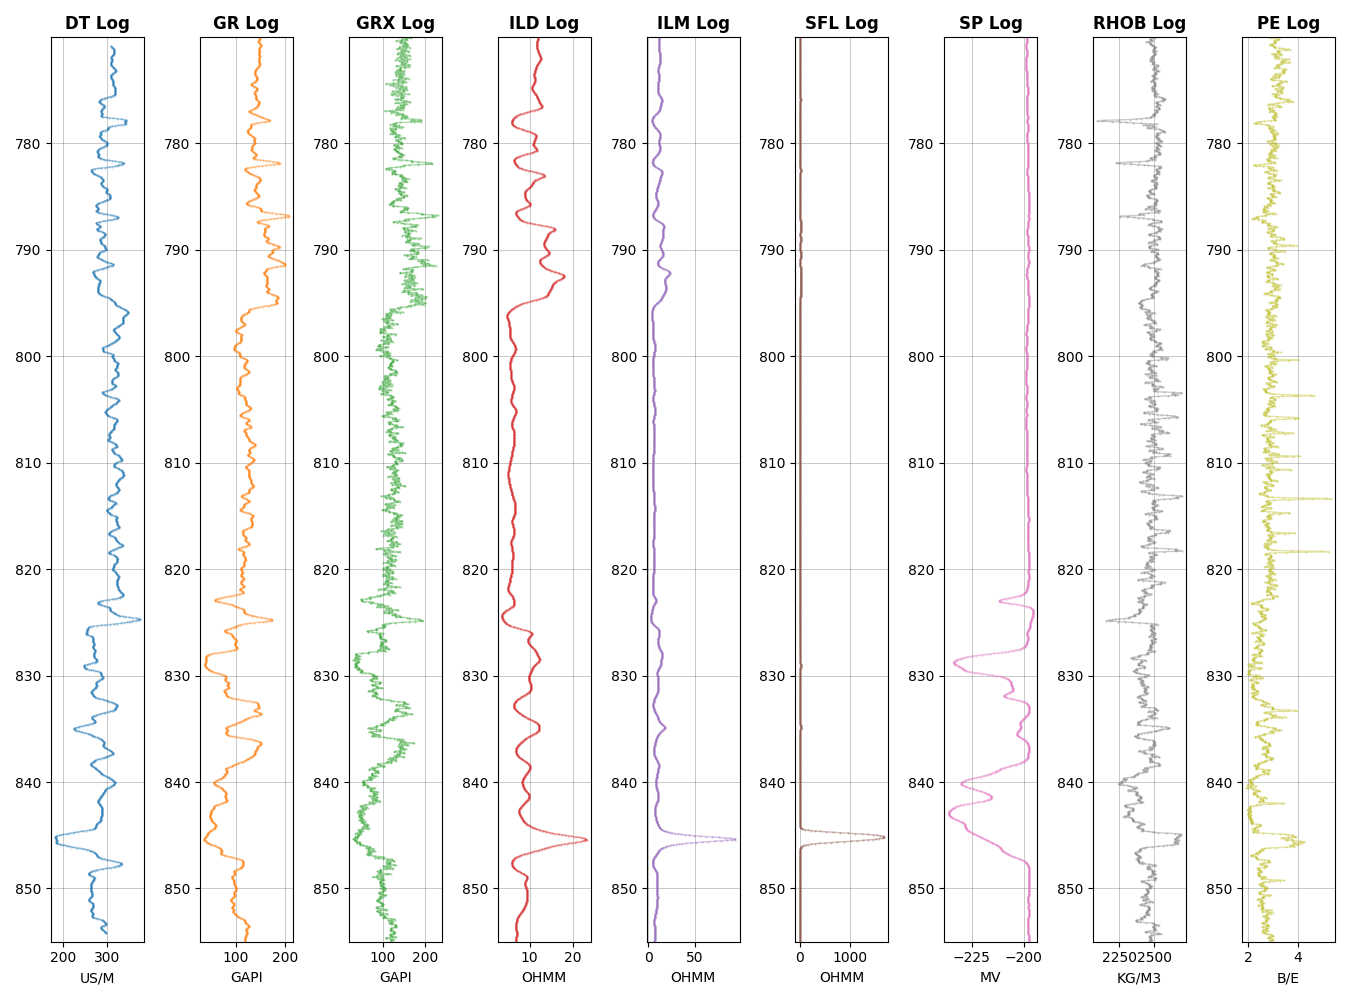
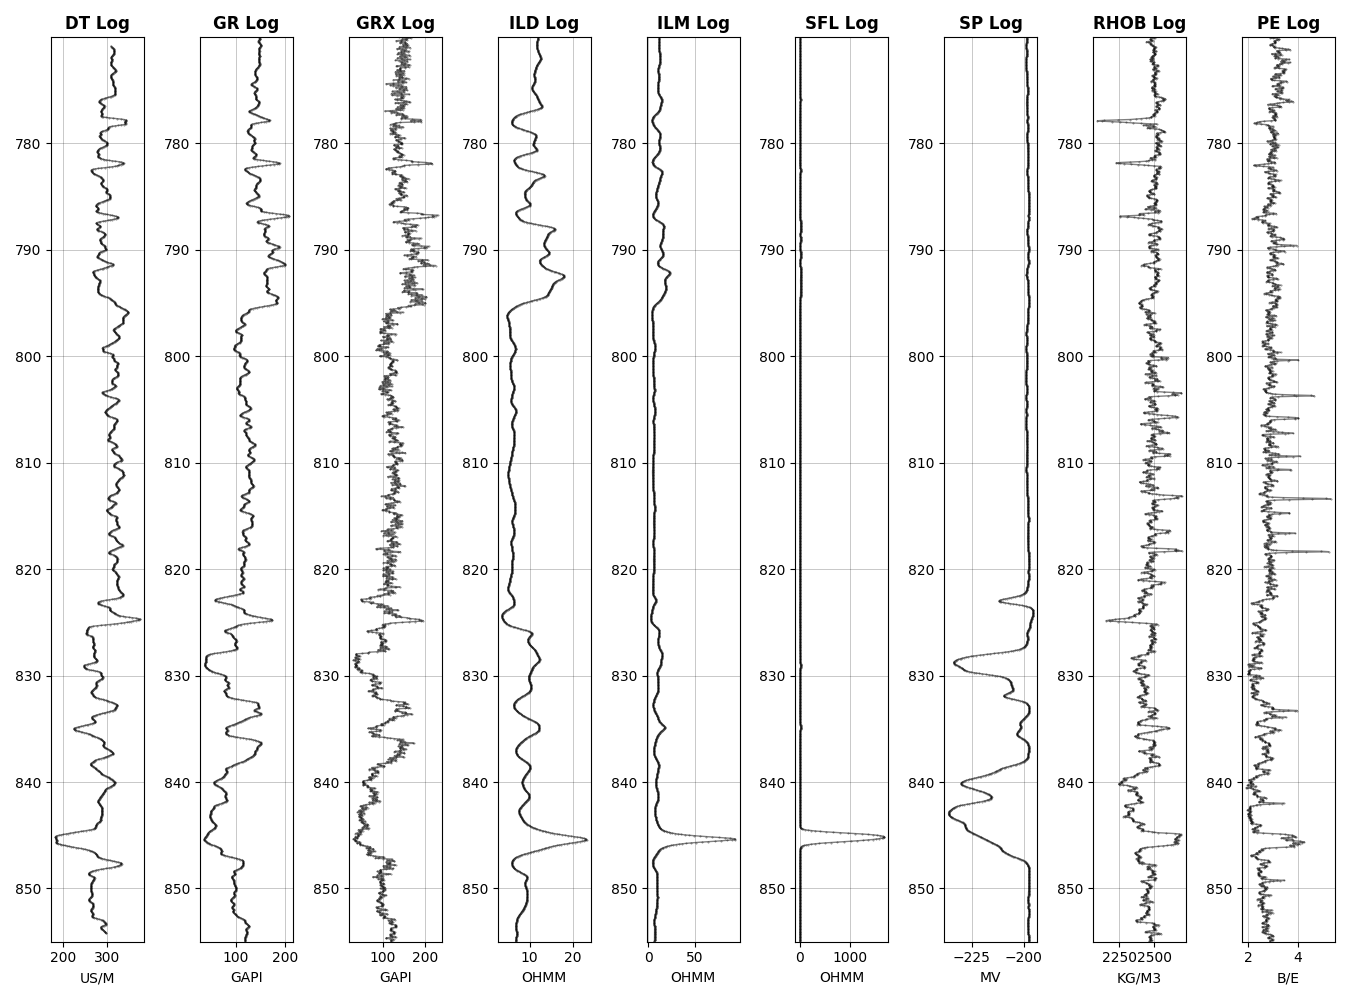
pushing

diff --git a/examples/onewell_driver.py b/examples/onewell_driver.py
@@ -17,7 +17,7 @@ def main():
         ax = axes[i]
         # plot ith curve
         ki_ret.data[curve].plot(
-            ax, linestyle='-', linewidth=1, color=f'C{i}', marker='o', markersize=0.5, alpha=0.4)
+            ax, linestyle='-', linewidth=1, color='black', marker='o', markersize=0.4, alpha=0.5)
         ax.set_title(f'{curve} Log', fontsize=12, fontweight='bold')
         ax.grid(True, linestyle='-', alpha=0.3, linewidth=0.5)
         ax.tick_params(axis='x', rotation=0)

diff --git a/src/loghorz/logloader_onewell.py b/src/loghorz/logloader_onewell.py
@@ -3,11 +3,13 @@ import matplotlib
 import matplotlib.pyplot as plt
 import welly
 from welly import Well
+import lasio as las
 
 def ki_ret_well():
     # load LAS file
     ki_ret = Well.from_las(
                      r"C:\Users\sydne\git\rvgs\loghorz_rvgs_test\las_files\HighResolution_full_SelCrv.LAS")
+
 
     # display basic info
     print(ki_ret)
